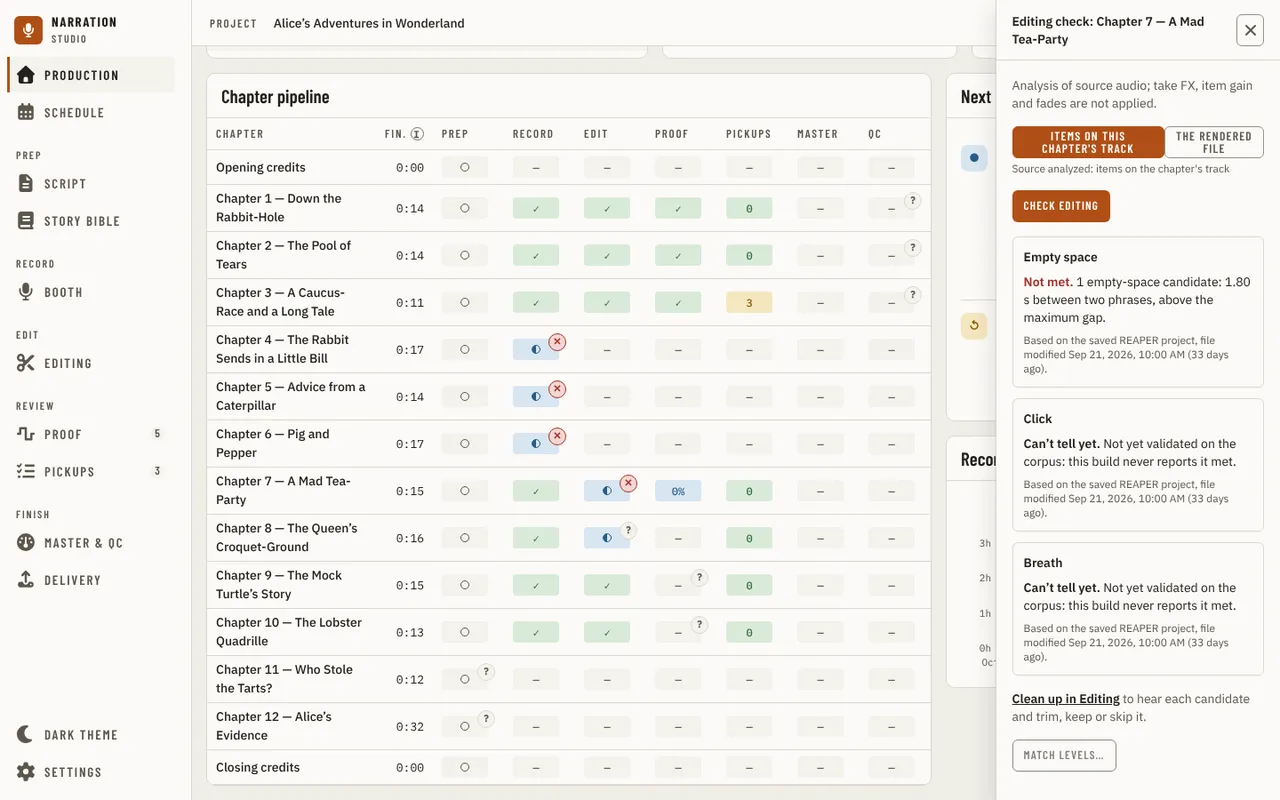
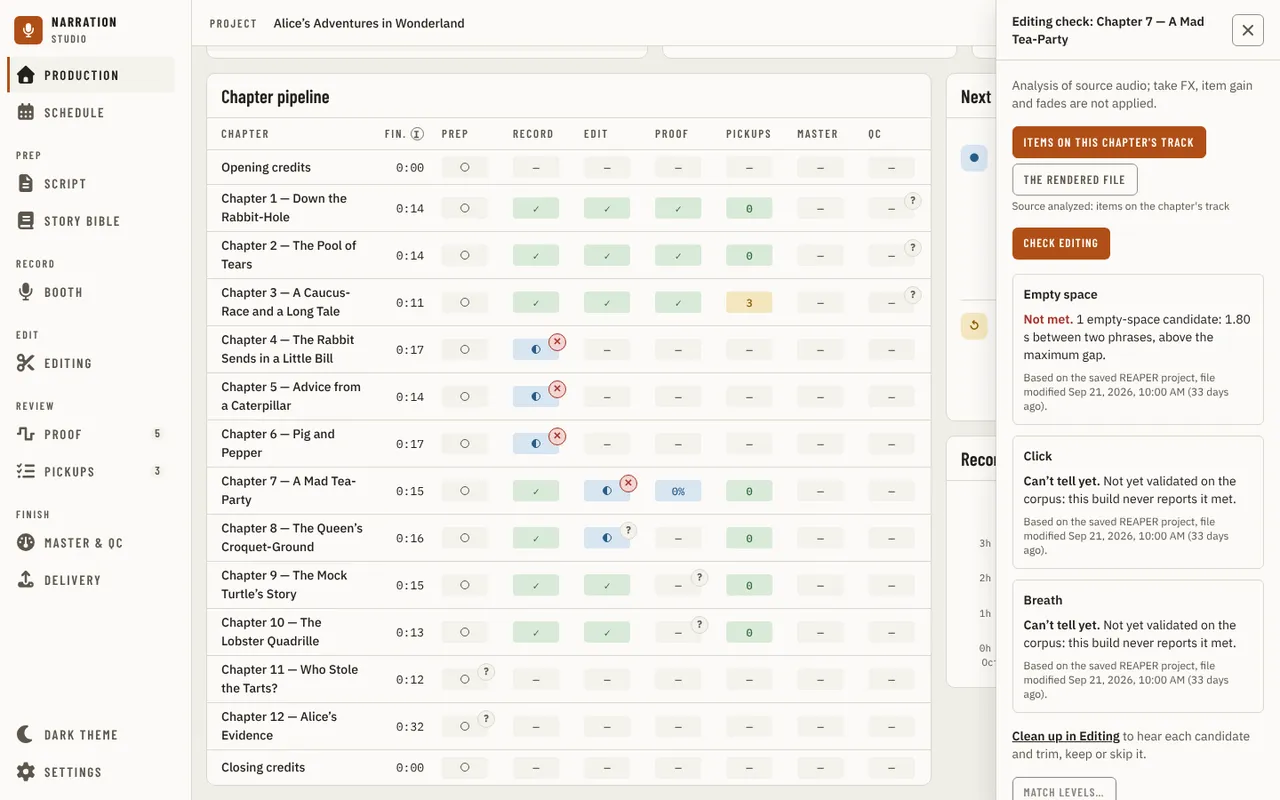
fix(ui): toggle groups wrap their chips and chips keep their labels on one line (#2376)

diff --git a/src/studio/ui/src/components/primitives/ToggleGroup.tsx b/src/studio/ui/src/components/primitives/ToggleGroup.tsx
@@ -16,7 +16,7 @@ export type ToggleGroupLook = 'default' | 'segmented';
 
 // A group of chips of which one is chosen (the Whisper model, the text size, the theme). The group has a name a screen
 // reader says before its chips ("Chunk length, group"). Each chip is a `Pill`, a toggle that reports `aria-pressed`; pressing the chosen one again reports it too and the
-// caller decides. Every chip stays a tab stop. `className` is the group's layout (`gap-1.5 flex-wrap`).
+// caller decides. Every chip stays a tab stop. The default row wraps with 6 px gaps; `className` is the group's placement.
 export function ToggleGroup({
   label,
   value,
@@ -35,7 +35,9 @@ export function ToggleGroup({
   const containerClass =
     look === 'segmented'
       ? 'inline-flex h-[2.0625rem] gap-0.5 rounded-[var(--radius-button)] border border-[var(--line-strong)] bg-[var(--bg)] p-[0.1875rem]'
-      : 'flex';
+      : // The chips wrap onto another line rather than squeeze, 6 px apart (alignment audit cause L); at no specificity, so a
+        // caller's own gap or nowrap still wins.
+        'flex [:where(&)]:flex-wrap [:where(&)]:gap-1.5';
   return (
     <div role="group" aria-label={label} className={`${containerClass} ${className}`}>
       {options.map((option) => (

diff --git a/src/studio/ui/src/components/primitives/ToggleGroup.test.tsx b/src/studio/ui/src/components/primitives/ToggleGroup.test.tsx
@@ -95,4 +95,13 @@ describe('ToggleGroup', () => {
     await userEvent.setup().click(within(group).getByRole('button', { name: 'Kobo' }));
     expect(onChange).toHaveBeenCalledWith('kobo');
   });
+  // Alignment audit cause L: the default group was a plain flex row, so chips squeezed their labels or ran out of the panel
+  // unless each caller remembered `flex-wrap gap-1.5`.
+  it('wraps its chips with a 6 px gap by default and never breaks a chip label', () => {
+    render(<Controlled />);
+    const group = screen.getByRole('group', { name: 'Log detail' });
+    expect(group.className).toContain('[:where(&)]:flex-wrap');
+    expect(group.className).toContain('[:where(&)]:gap-1.5');
+    for (const chip of screen.getAllByRole('button')) expect(chip.className).toContain('whitespace-nowrap');
+  });
 });

diff --git a/src/studio/ui/src/components/primitives/Pill.tsx b/src/studio/ui/src/components/primitives/Pill.tsx
@@ -38,7 +38,7 @@ export function Pill({
       pressed={active}
       disabled={disabled}
       onPressedChange={() => onClick?.()}
-      className={`inline-flex items-center justify-center ${look === 'filter' ? 'text-[0.88rem] font-medium' : "font-['Barlow_Condensed',sans-serif] text-[0.85rem] font-semibold tracking-[var(--tracking-button)]"} disabled:opacity-40 ${LOOK_CLASS[look](active)}`}
+      className={`inline-flex items-center justify-center whitespace-nowrap ${look === 'filter' ? 'text-[0.88rem] font-medium' : "font-['Barlow_Condensed',sans-serif] text-[0.85rem] font-semibold tracking-[var(--tracking-button)]"} disabled:opacity-40 ${LOOK_CLASS[look](active)}`}
     >
       {label}
     </Toggle>

diff --git a/docs/design/design-system.md b/docs/design/design-system.md
@@ -43,7 +43,7 @@ Location: `src/studio/ui/src/components/primitives/`.
 | `Select` | The native `<select>`, drawn with the tokens | Stays native on purpose: `fireEvent.change` and Playwright's `selectOption` work; `options` are `{ value, label, group? }` (consecutive options with one `group` sit under an `<optgroup>` heading, and an option with none sits outside any); `onChange(value)`; named like `TextField`; `fullWidth` for a form column. `Select`'s line-height and `TextField`'s height are both 40.8 px (`--control-height`); the focus ring shows on keyboard focus only (`:focus-visible`, not `:focus`), and an unselected `RadioGroup` option fills `--surface-3` with a `--border` rim, mock-measured |
 | `RadioGroup` | A named choice of one from a short list, every option and its help text visible at once | Base UI Radio; `label` names the `radiogroup`, `options` are `{ value, label, description? }`, `onChange(value)`. The description sits outside the `label` element, so a screen reader hears the option's name alone. The unselected radio fills `--surface-3` with a `--border` rim. For a handful of options seen side by side; a long list is a `Select` |
 | `Tabs` (with `TabList`, `Tab`, `TabPanel`) | Tab strip and the content of the selected tab (Base UI Tabs) | Roles, `aria-selected`, panel links and arrow keys from the library; `TabList` needs a `label`; `activation` `manual` (arrows move focus, Enter selects; default) or `automatic`; `variant` `underline` (selected label `--accent-strong`, a 2 px `--accent` underline over the strip's 1 px `--border` rule, spanning the label plus 10 px each side, `--tracking-button` tracking) or `sidebar` (selected fill `--accent-soft`, replacing an untokenised `color-mix`), measured on the benchmark mocks; the strip and panel sit under one `Tabs` root, which may be `contents`; a panel is not a tab stop |
-| `ToggleGroup` | A named group of exclusive `Pill`s | `role="group"` with a required `label`; `options` `{ value, label, disabled?, title? }`, `onChange(value)`; every chip stays a tab stop; `look` `default` (a row of standalone chips, each with its own border) or `segmented` (one 33 px bordered container, `--bg` fill, the chips inset with no border of their own — the Master page's platform switch, the Studio Next mock's Master page); layout through `className` (`gap-1.5 flex-wrap`) |
+| `ToggleGroup` | A named group of exclusive `Pill`s | `role="group"` with a required `label`; `options` `{ value, label, disabled?, title? }`, `onChange(value)`; every chip stays a tab stop; `look` `default` (a row of standalone chips, each with its own border) or `segmented` (one 33 px bordered container, `--bg` fill, the chips inset with no border of their own — the Master page's platform switch, the Studio Next mock's Master page); the `default` row wraps its chips 6 px apart and a chip never breaks its label (alignment audit cause L); placement through `className`, which wins over the default gap and wrap |
 | `TagInput` | A list of terms the user keeps: chips, suggested chips, a typing box | One named `role="group"`; owns the draft only and reports `onAdd(text)`, `onRemove(tag)`, `onAcceptSuggestion(term)`; a blank draft reports nothing; focus returns to the box after a removal; an `actions` slot beside Add; used by the Proofing vocabulary hints |
 | `Table` (with `TableHead`, `TableBody`, `TableRow`, `TableHeader`, `TableCell`) | Presentational data table on the browser's own table elements | `label` names it; `TableRow onActivate` makes a row a control (tab stop, Enter or Space, `selected` sets `aria-selected`, a control inside it keeps its own press, `data-row`); `TableRow data` adds `data-*` attributes to the row (a key a right-click menu reads); `TableHeader align="right"` for numeric columns and `sorted`/`onSort` for a sortable column (`aria-sort`); a 31 px header and 34 px rows from `--header-row-height`/`--row-height`, 14 px body text; `TableCell` sits in the middle of the row (`valign="top"` for a multi-line table), `numeric` (Plex Mono 13 px, right-aligned, unbroken) and `muted` (12 px secondary text); a `selected` row is filled `--row-selected`, `TableRow emphasis="current"` is bold and `"highlight"` takes the selected fill without `aria-selected`; `Table flush` runs to a `Panel`'s side edges; `TableHead sticky`; the caller owns sorting and selection `TableBody navigable` moves focus between pressable rows with Up, Down, Home and End (a key aimed at a control inside a row is left to it) and `onKeyDown` and `onFocus` hear the body's keys and focus; `TableRow tabStop={false}` drops a row from the tab order so rows share one stop; `Table rowCount` and `TableRow rowIndex` set `aria-rowcount` and `aria-rowindex` for a caller that draws only the rows in view (the Story Bible's entry table); `columns` fixes the column widths (one CSS width per column, `'auto'` for the rest, drawn as a `colgroup` with `table-fixed`), so columns stay put between states and a long cell wraps in its own column; a table at its card's edges (`flush`, or any table in a `Panel flush`) starts its first column and ends its last 16 px in, where the card title starts, and drops the last row's rule for the card's border (`TABLE_EDGES`, alignment audit cause D) |
 | `Highlight` | Highlighted text (entity / note / review, plus the Teleprompter's `Cursor` word and the read-aloud flags) | One category→color mapping; fills the line height; `Cursor` is an `--accent-soft` fill with `--accent-strong` text, a 0.25rem radius and a 2 px `--accent` leading caret (an inset shadow), so it reads as a position marker and not a selection; the flag kinds `Misread`, `Skipped`, `Restart` (wavy, dotted, dashed underline) and `Extra` (an insertion bar) are decorations only, no tint or text colour; `label` and `description` name and describe an activatable mark ([usePacedCursor.ts](../../src/studio/ui/src/components/booth/usePacedCursor.ts), [readerFlags.ts](../../src/studio/ui/src/components/booth/readerFlags.ts)) |
